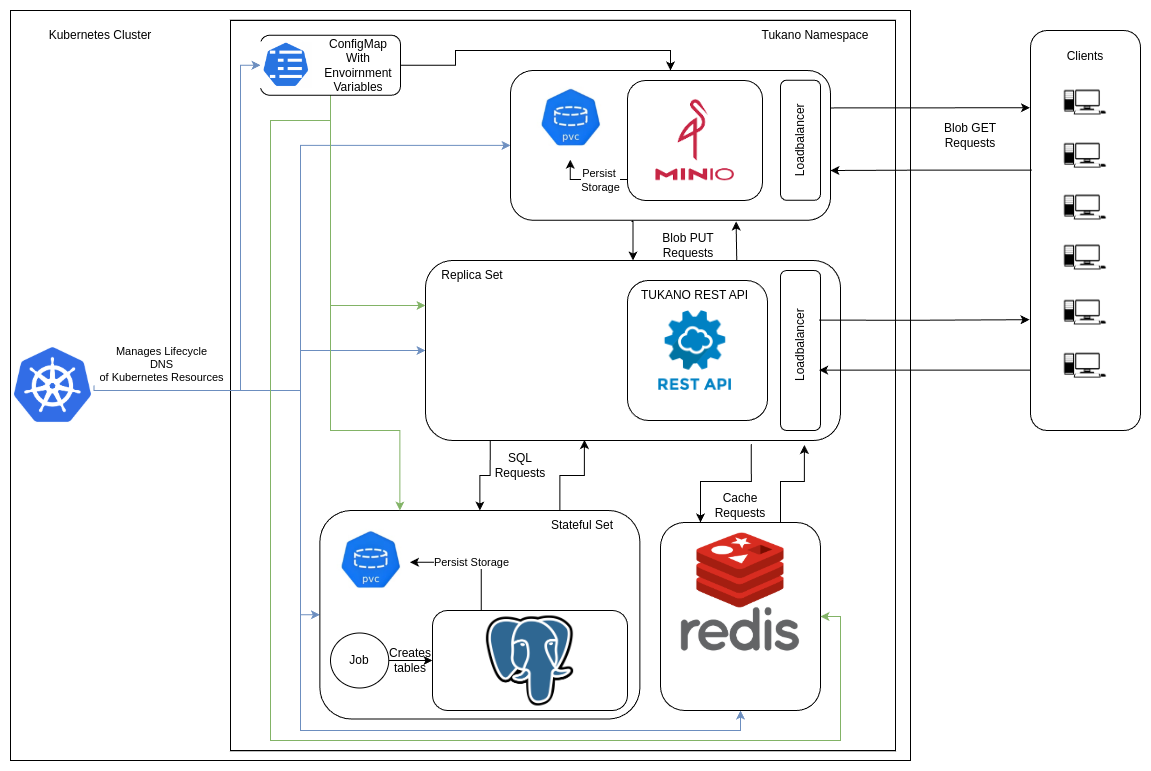
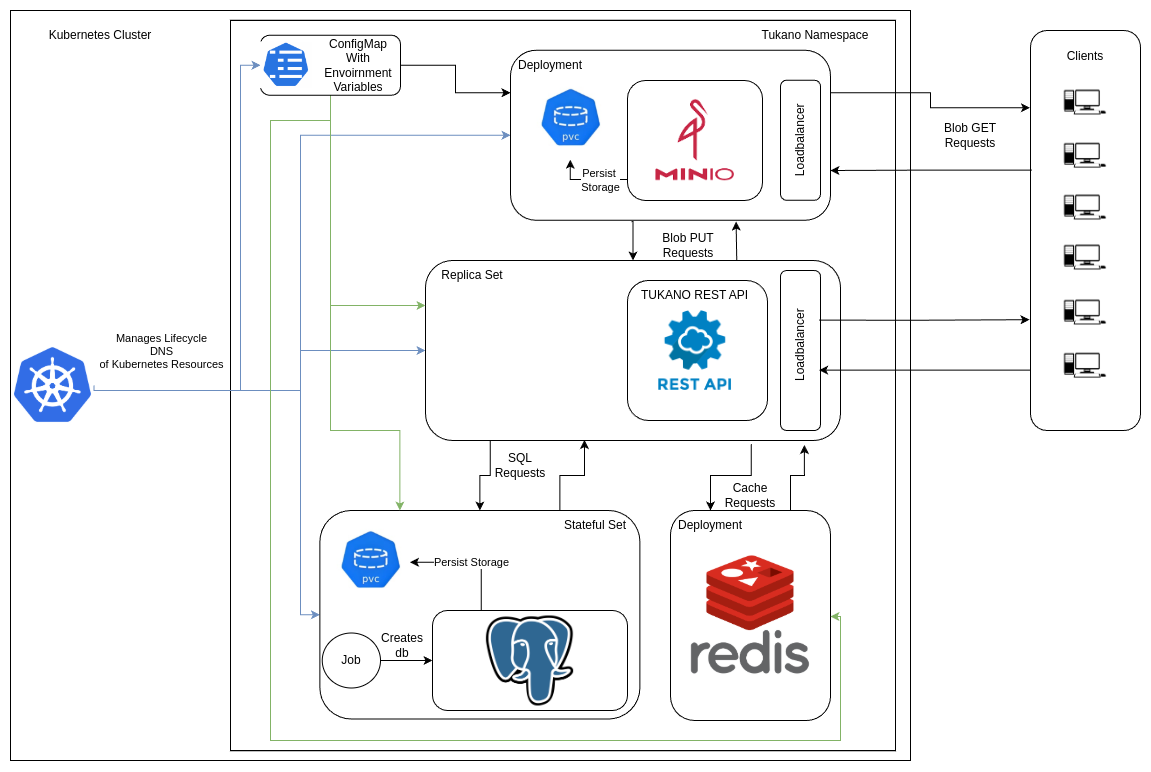
Edited report and documentation

diff --git a/report/report.tex b/report/report.tex
@@ -142,9 +142,9 @@ This application can be divided basically into three major logical components, U
 \label{sec:architecture}
 This application is contained inside a Kubernetes Cluster, which manages the deployment, scaling, and operation of the microservices. As mentioned in the introduction, the application was divided into several microservices. 
 \subsection{Components, Microservices}
-As shown in Figure \ref{fig:tukano_architecture}, there are 5 major logical components, they are all defined as microservices, except for the ConfigMap, which complements the composition of these microservices, additionally each one has a service to allow them to be reached via a DNS entry, managed by the Kubernetes Control Plane, instead of using the private cluster IpAddress of that instance.
+As shown in Figure \ref{fig:tukano_architecture}, there are 5 major logical components, they are all defined as microservices, except for the ConfigMap, which complements the functionality of these microservices, additionally each one has a service to allow them to be reached via a DNS entry, managed by the Kubernetes Control Plane, instead of using the private cluster IpAddress of that instance.
 \subsubsection{MINIO Service}
-Minio\cite{minio} is a high-performance, distributed object storage system. It is designed to handle large amounts of unstructured data, such as photos, videos, log files, backups, and container images, which makes it a perfect replacement for Azure Blob Storage. It has a PVC (persistent volume claim) attached to avoid losing any data in the event of a restart of this deployment and contains a LoadBalancer that exposes this microservice to outside the cluster.
+Minio\cite{minio} is a high-performance, distributed object storage system. It is designed to handle large amounts of unstructured data, such as photos, videos, log files, backups, and container images, which makes it a perfect replacement for Azure Blob Storage. It has a PVC (persistent volume claim) attached to avoid losing any data in the event of a restart of this deployment and contains a LoadBalancer that exposes this microservice to the outside of the cluster.
 
 \subsubsection{PostgreSQL}
 This microservice serves as the main database of the application, where user, shorts, following, and likes information is stored. It is defined as a StatefulSet, which is common practice in the industry. It also has a PVC attached to prevent data loss in the event of a StatefulSet restart.
@@ -158,7 +158,7 @@ This is an individual resource that holds all the necessary environmental variab
 \subsubsection{TuKano RestAPI}
 This is a microservice containing the central REST API of this application. It holds the logic for creating and removing users, managing shorts, and storing blobs.
 \par This microservice, in its essential form, consists of a pod with a Docker container that runs the Docker image defined in the repository of this project. This Docker image is built on top of \verb|tomcat:10.0-jdk17-openjdk-slim|, which allows it to run a Tomcat webserver that exposes a specific port for communication.
-\par The communication with the database is handled using an Hibernate configuration and a JDBC Driver\cite{jdbc}. Communication with the MINIO storage is achieved through a MINIO Client\cite{minioClient}. It uses Jedis\cite{jedis}, a Java client for Redis Cache, to interact with the caching service.
+\par The communication with the database is handled using an Hibernate configuration and a JDBC Driver\cite{jdbc}. Communication with the MINIO storage is achieved through a MINIO Client\cite{minioClient}. Finally, uses Jedis\cite{jedis}, a Java client for Redis Cache, to interact with the caching service.
 
 
 

diff --git a/README.md b/README.md
@@ -8,7 +8,29 @@ Victor Ditadi Perdigão -  70056 - v.perdigao@fct.unl.pt
 
 ## Usage
 
-### Creating the Docker image
+### Make file
+```make deploy``` it will automatically deploy in a minikube cluster<br>
+
+Additional steps, this assumes an alias from 'kubectl' to 'kc'
+```bash
+# Copy the output URL from this command (should be an IP Address)
+minikube service minio-service -n tukano
+# Edit the MINIO_EXTERNAL_URL value with it
+kc edit cm secrets
+# Delete the tukano pod so that it has access to the new variable
+kc delete pod tukano-rest-api-[actualpod]
+```
+
+#### Development
+If any changes to the code, there's no need to re-deploy the cluster
+```bash
+make tukano
+```
+And it will automatically update the deployment.
+
+
+### Manually
+#### Creating the Docker image
 Compile to generate the .war file:
 ```bash
 mvn clean compile package
@@ -28,7 +50,7 @@ docker push <docker_hub_username>/<name_image>
 
 ```<docker_hub_username>/<name_image>``` is the image value for the ```tukano_deployment.yaml``` file
 
-### Deploying the microservices (locally)
+#### Deploying the microservices (locally)
 The following commands assume you got some sort of alias from ```kubectl``` to ```kc```
 ```bash
 cd kubernetes
